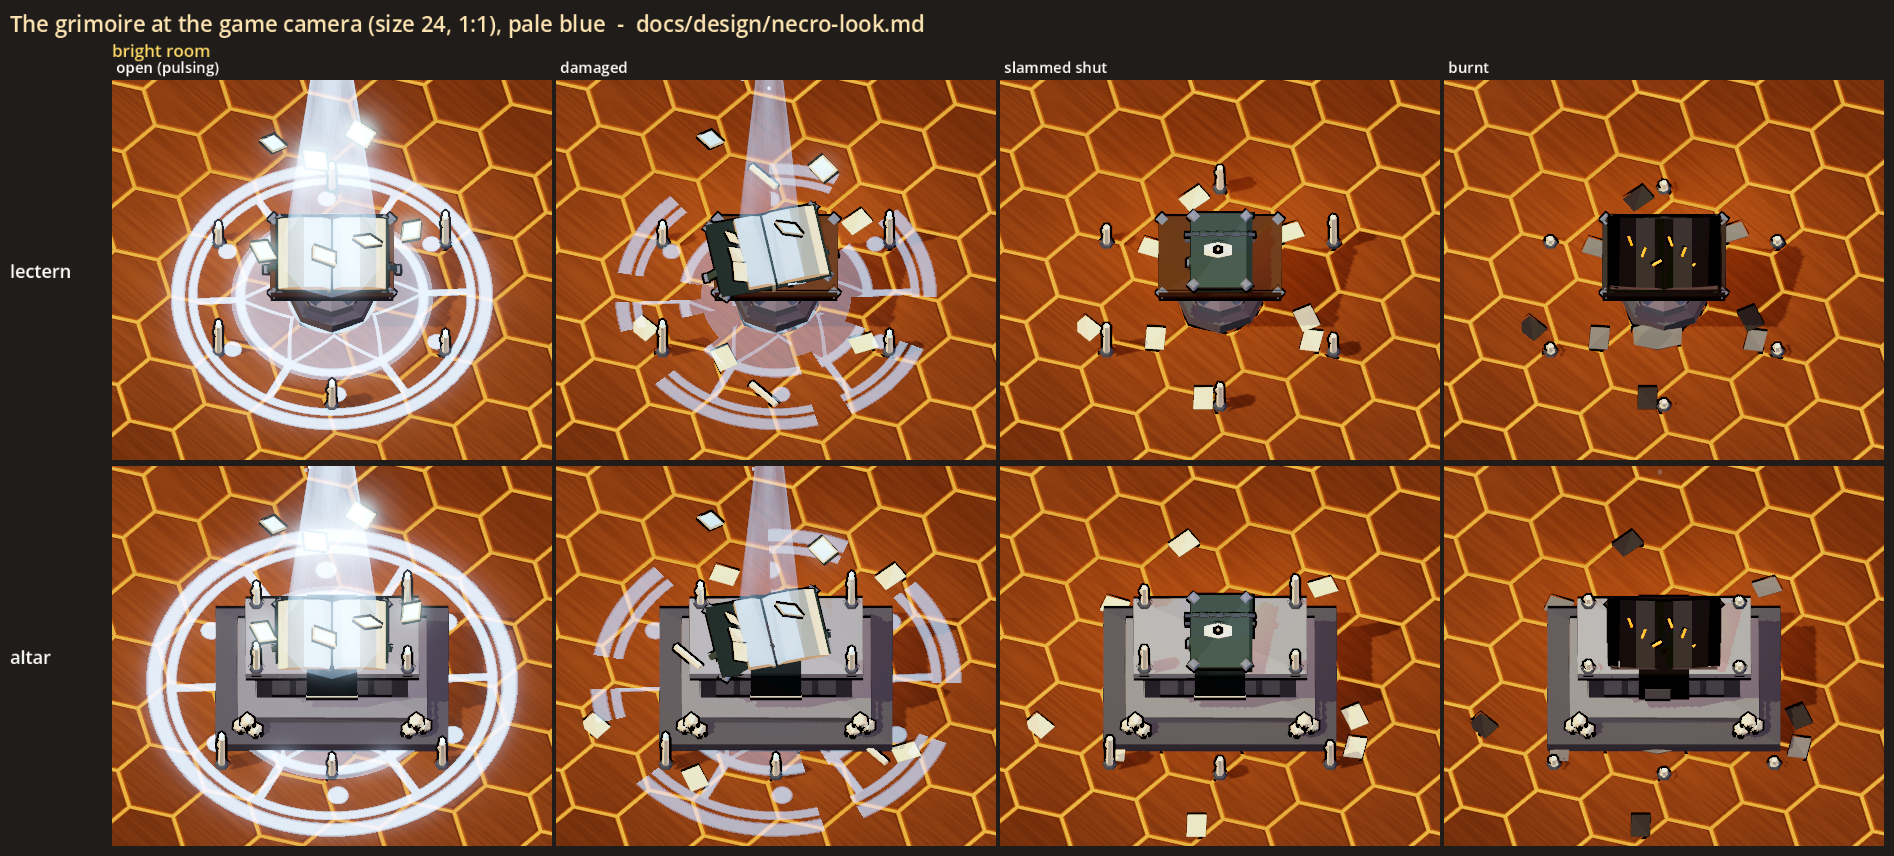
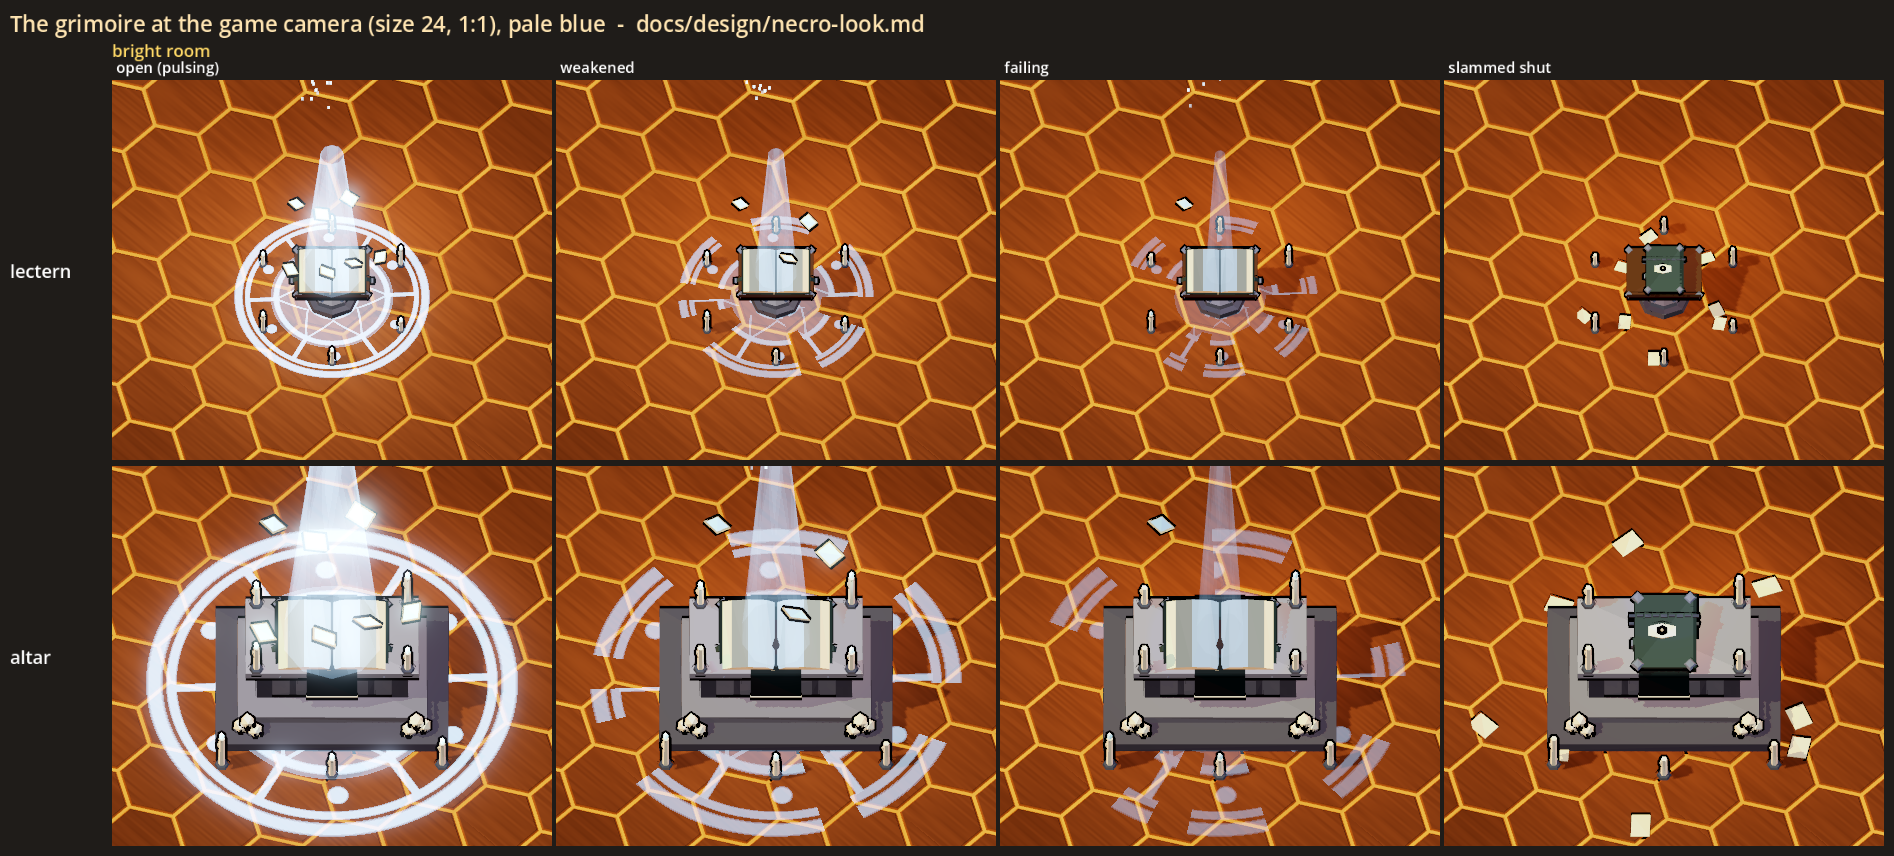
Necro look: a smaller lectern; the grimoire's phases in its effects (open, weakened, failing, shut)
The user (2026-10-29): "The lectern should be much smaller"; "The damaged and
burnt don't read correctly. Maybe let's do it with the effects surrounding the
book instead. The book itself could go from open to closed."

diff --git a/docs/design/necro-look.md b/docs/design/necro-look.md
@@ -22,6 +22,12 @@ on eyes, hands, flames and pages, and the rim (the faceted fresnel) on the raise
   thin waist (0.26, was 0.46) and is shallower; the shoulders, arms and legs moved in to match, and a hunched upper back
   was added. The user: "Better!"
 - **No ring under a rising zombie**: "Drop the ring." The motes rising off it stay as the "it will get up" tell.
+- **The grimoire: a much smaller lectern, and the phases in the effects round the book.** The user: "The lectern should be
+  much smaller." and "The damaged and burnt don't read correctly. Maybe let's do it with the effects surrounding the book
+  instead. The book itself could go from open to closed." The lectern set piece is now 0.85 (was 1.4; the altar stays
+  1.4). The states are **open**, **weakened**, **failing** and **shut**: the book stays whole and open until it is shut,
+  and the column of light thins and stutters, the circle breaks up, the circling pages and the candles go out and the
+  light drops as it weakens. The torn and burnt books are gone. (The sections below still describe the first version.)
 
 ## What the user is choosing
 
